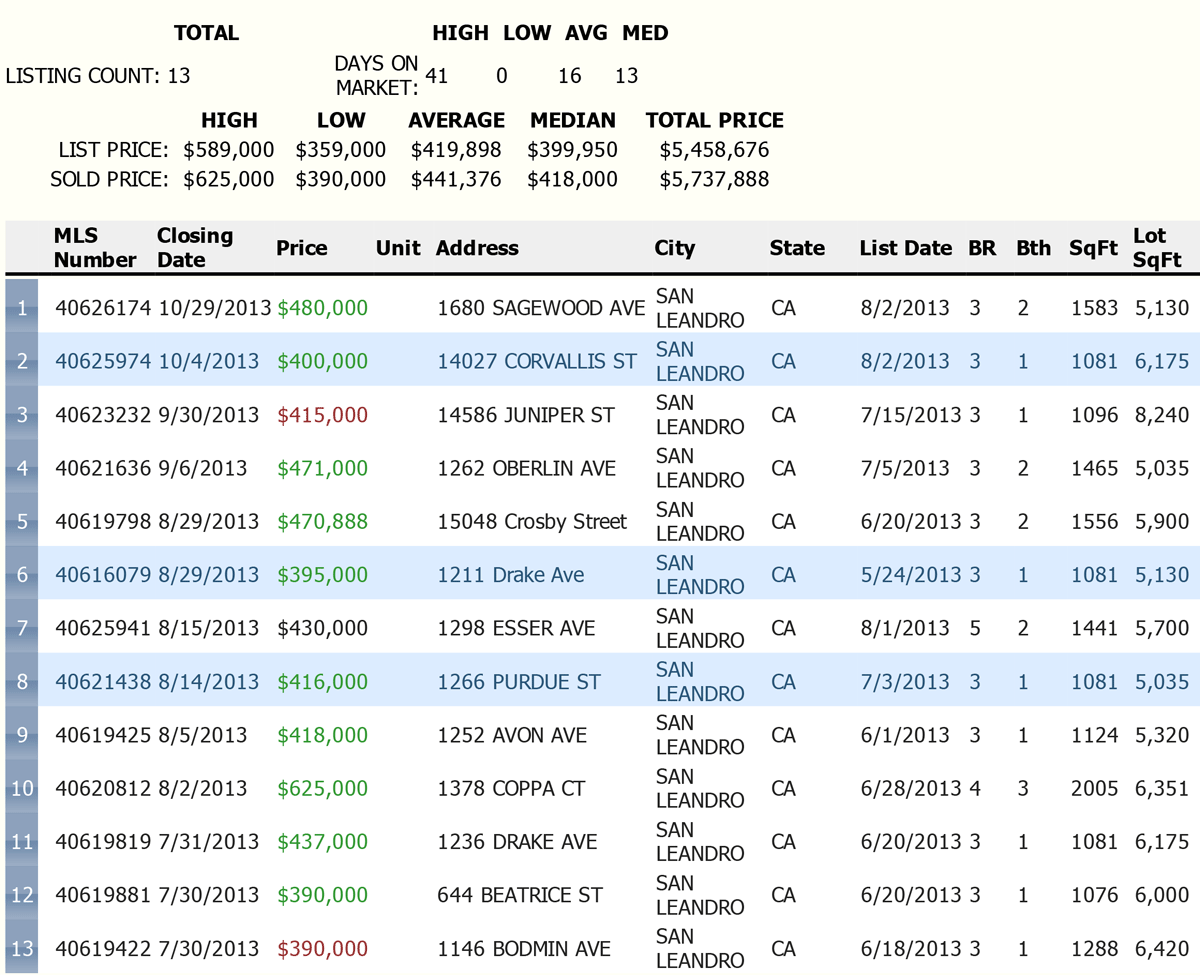
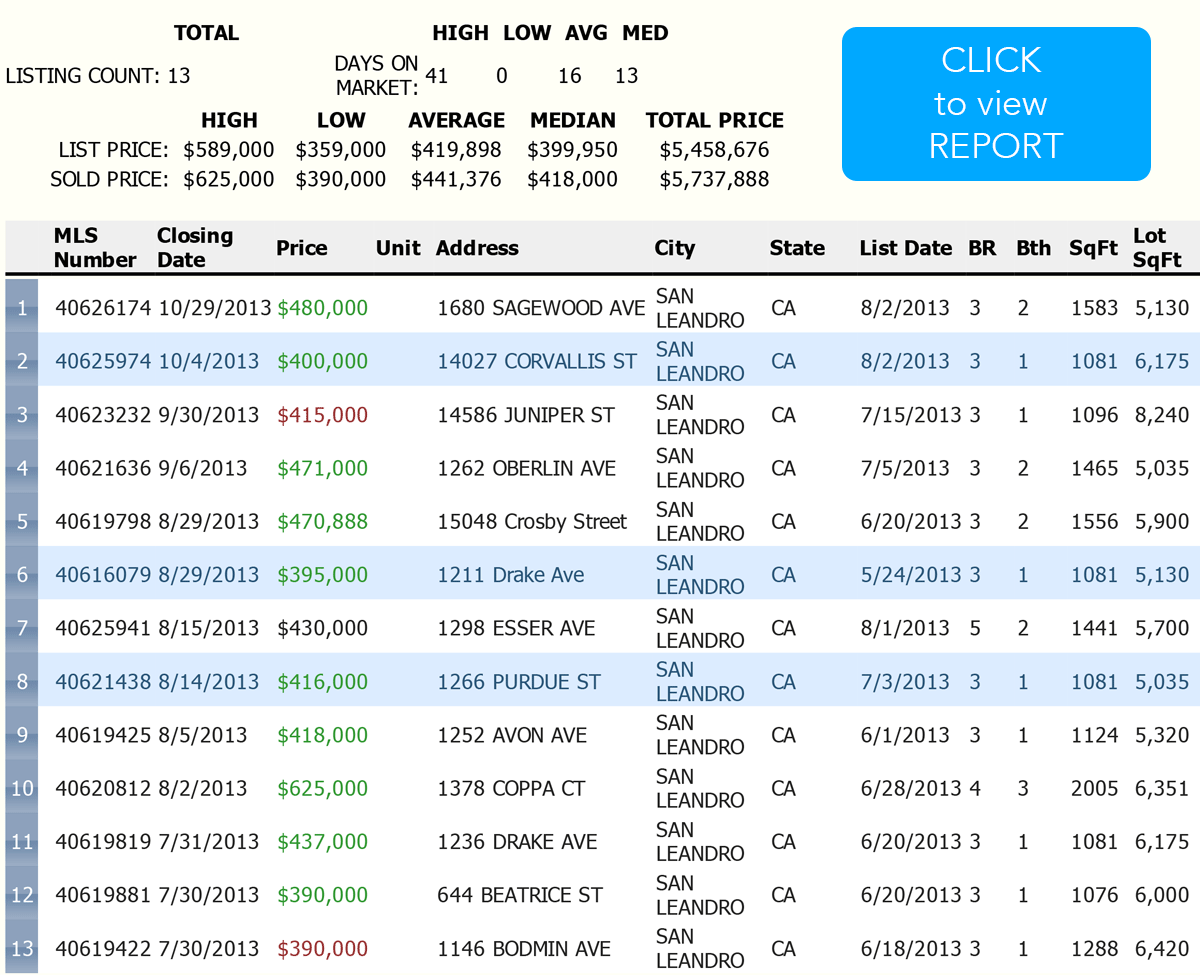
comp

Changed region(s): [[0.6783, 0.0307, 0.9867, 0.1844]]

diff --git a/index.php b/index.php
@@ -225,7 +225,7 @@
 								</div>
 							</div>
 							<br />
-							<a href="images/compdata.png" class="image full fancybox"><img style="width: 100%;" src="images/compdata.png" /></a>
+							<a href="http://maxebrdi.paragonrels.com/publink/default.aspx?GUID=f03b6f64-5593-4834-a140-ddac6fe11450&Report=Yes" class="image full"><img style="width: 100%;" src="images/compdata.png" /></a>
 						</div>
 					</section>
 			
